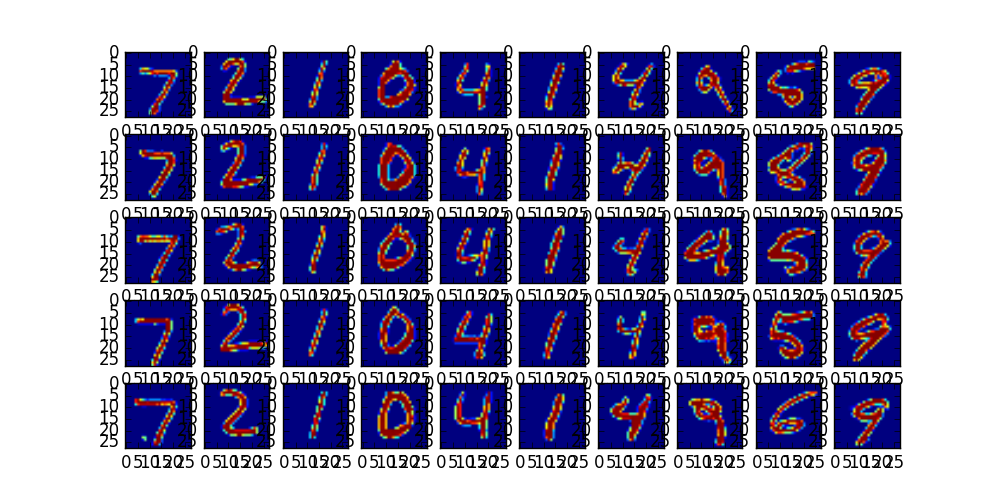
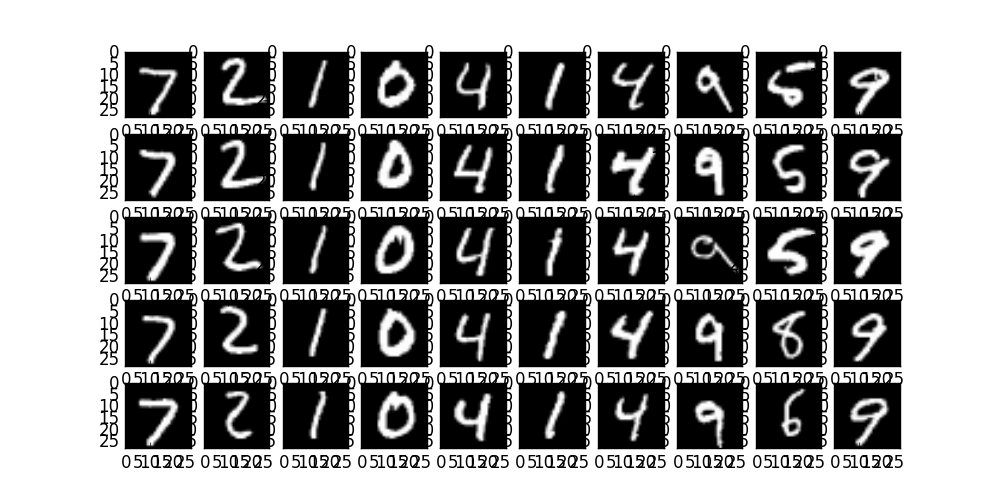
Change image from color to gray

diff --git a/algo/neuralNetworks/tensorflow/autoencoder.py b/algo/neuralNetworks/tensorflow/autoencoder.py
@@ -50,6 +50,7 @@ examples_to_show = 10
 encode_decode = session.run(decoder_l2, feed_dict={x: mnist.test.images[:examples_to_show]})
 # Compare original images with their reconstructions
 f, a = plt.subplots(2, 10, figsize=(10, 2))
+plt.gray()
 for i in range(examples_to_show):
     a[0][i].imshow(np.reshape(mnist.test.images[i], (28, 28)))
     a[1][i].imshow(np.reshape(encode_decode[i], (28, 28)))
@@ -60,6 +61,7 @@ target_embedding = session.run(encoder_l2, feed_dict={x: mnist.test.images[examp
 
 topK = 4
 f, a = plt.subplots(topK + 1, 10, figsize=(10, topK + 1))
+plt.gray()
 for i in xrange(examples_to_show):
     min_idx = np.argsort(np.sum((target_embedding - source_embedding[i]) ** 2, axis = 1))
     a[0][i].imshow(np.reshape(mnist.test.images[i], (28, 28)))           
